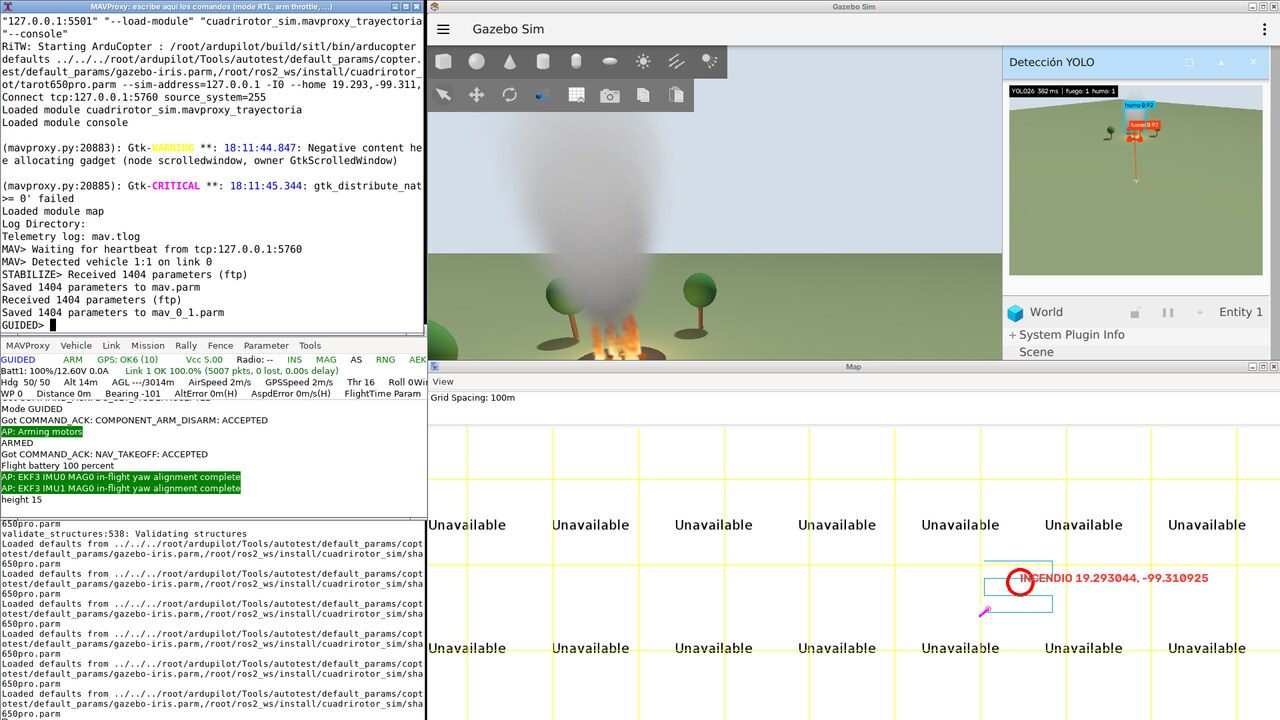
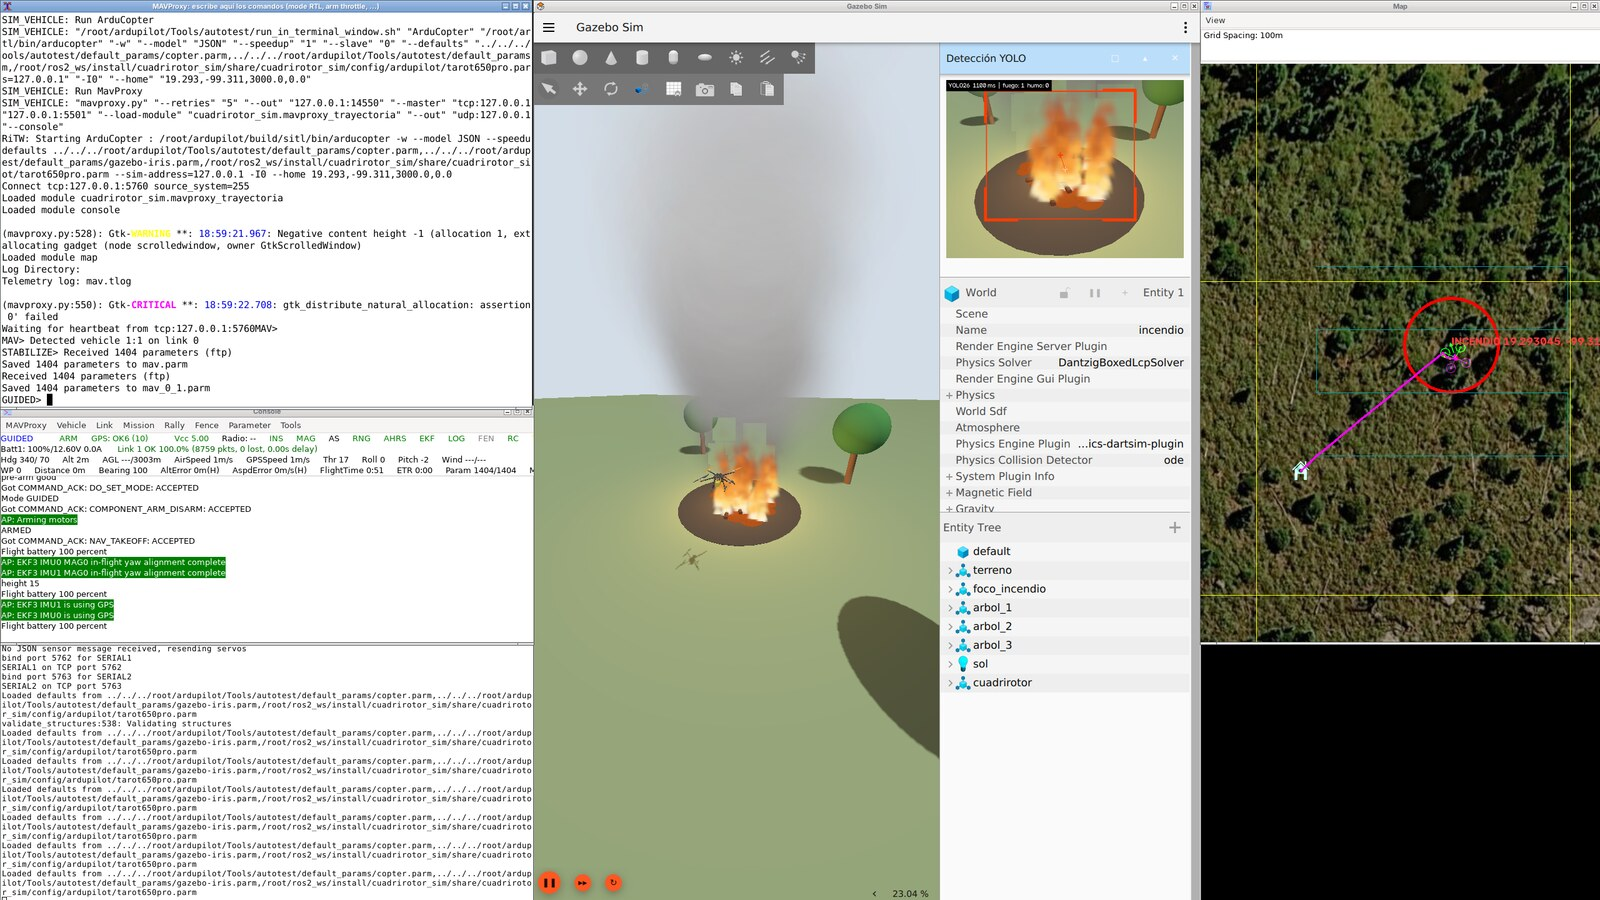
docs: imágenes de las ventanas de ArduPilot y mapa centrado en la ruta
Capturas de la búsqueda pilotada por ArduPilot SITL con el Tarot 650 Pro
(pantalla de 2560x1440, mapa satelital), con cada ventana por separado:
terminal de MAVProxy, consola de MAVProxy, terminal de ArduCopter, mapa con la
trayectoria y el incendio, y Gazebo con la detección de YOLO26.

mavproxy_trayectoria: al llegar la ruta, el mapa se centra en ella con el
acercamiento justo para verla entera (en el mundo incendio la ruta mide unos
80 m y el mapa abría demasiado lejos). Prueba en test_mavproxy_trayectoria.py.

diff --git a/src/cuadrirotor_sim/cuadrirotor_sim/mavproxy_trayectoria.py b/src/cuadrirotor_sim/cuadrirotor_sim/mavproxy_trayectoria.py
@@ -4,7 +4,8 @@
     despega, como una línea continua (un punto cada 'paso' metros).
   - Ruta planeada (cian tenue) y foco del incendio confirmado (círculo rojo):
     los escribe busqueda_incendio en un JSON ('archivo_mapa'); este módulo lo
-    vuelve a leer cuando cambia.
+    vuelve a leer cuando cambia. La primera vez que llega la ruta, el mapa se
+    centra en ella con el acercamiento justo para verla entera.
 
 Se carga con  mavproxy.py --load-module=cuadrirotor_sim.mavproxy_trayectoria
 (el launch lo hace con controlador:=ardupilot y GUI). Comandos en el prompt:
@@ -32,6 +33,21 @@ def distancia(a, b):
     return math.hypot(dx, dy)
 
 
+def encuadre(ruta):
+    """Centro (lat, lon) y ancho a la vista [m] para ver la ruta entera, con margen."""
+    lats, lons = [p[0] for p in ruta], [p[1] for p in ruta]
+    centro = ((min(lats) + max(lats)) / 2, (min(lons) + max(lons)) / 2)
+    lado = max(distancia((min(lats), centro[1]), (max(lats), centro[1])),
+               distancia((centro[0], min(lons)), (centro[0], max(lons))))
+    return centro, max(80.0, 1.6 * lado)
+
+
+def encuadrar(mapa, ruta):
+    centro, ancho = encuadre(ruta)
+    mapa.set_center(*centro)
+    mapa.set_zoom(ancho)
+
+
 class Trayectoria(mp_module.MPModule):
 
     def __init__(self, mpstate):
@@ -44,6 +60,7 @@ class Trayectoria(mp_module.MPModule):
         self.t_archivo = 0.0
         self.mtime = None
         self.datos = {}
+        self.encuadrado = False
         self.add_command('trayectoria', self.comando, 'trayectoria recorrida en el mapa',
                          ['borrar', 'ocultar', 'mostrar'])
 
@@ -103,6 +120,9 @@ class Trayectoria(mp_module.MPModule):
             self.mtime = None     # a medio escribir; se reintenta
             return
         ruta = [tuple(p) for p in self.datos.get('ruta', [])]
+        if len(ruta) >= 2 and not self.encuadrado:
+            self.encuadrado = True
+            encuadrar(mapa, ruta)
         if self.visible and len(ruta) >= 2:
             mapa.add_object(mp_slipmap.SlipPolygon('ruta_planeada', ruta, layer=CAPA,
                                                    colour=(0, 160, 160), linewidth=1, showcircles=False))

diff --git a/src/cuadrirotor_sim/test/test_mavproxy_trayectoria.py b/src/cuadrirotor_sim/test/test_mavproxy_trayectoria.py
@@ -1,0 +1,18 @@
+import pytest
+
+pytest.importorskip('MAVProxy')
+from cuadrirotor_sim.geo import enu_a_geodesica  # noqa: E402
+from cuadrirotor_sim.mavproxy_trayectoria import distancia, encuadre  # noqa: E402
+
+
+def test_encuadre_centra_la_ruta_con_margen():
+    # Rectángulo de 100 m (este) por 60 m (norte) con centro en (10, 20) del mundo.
+    ruta = [enu_a_geodesica(x, y, 0.0)[:2] for x, y in ((-40, -10), (60, -10), (60, 50), (-40, 50))]
+    centro, ancho = encuadre(ruta)
+    assert distancia(centro, enu_a_geodesica(10, 20, 0.0)[:2]) < 0.5
+    assert ancho == pytest.approx(1.6 * 100, rel=0.01)
+
+
+def test_encuadre_minimo_para_rutas_cortas():
+    ruta = [enu_a_geodesica(x, 0, 0.0)[:2] for x in (0, 5)]
+    assert encuadre(ruta)[1] == 80.0

diff --git a/README.md b/README.md
@@ -92,8 +92,23 @@ Con la interfaz se abren y se acomodan solas (`ventanas_sitl.py`) las ventanas d
 - **Terminal de ArduCopter** (abajo a la izquierda): la salida del SITL.
 - **Gazebo** con el panel "Detección YOLO".
 - **Mapa de MAVProxy**: la ruta de patrulla (cian), la trayectoria recorrida (magenta) y el
-  incendio con sus coordenadas (círculo rojo), que dibuja el módulo `mavproxy_trayectoria.py`. En
-  su prompt: `trayectoria borrar`, `trayectoria ocultar`, `trayectoria mostrar`.
+  incendio con sus coordenadas (círculo rojo), que dibuja el módulo `mavproxy_trayectoria.py`. Al
+  llegar la ruta, el mapa se centra en ella. En su prompt: `trayectoria borrar`,
+  `trayectoria ocultar`, `trayectoria mostrar`.
+
+Cada ventana, durante la órbita sobre el foco:
+
+| Terminal de MAVProxy | Consola de MAVProxy |
+|---|---|
+| ![Terminal de MAVProxy con el prompt GUIDED>](docs/ardupilot_terminal_mavproxy.png) | ![Consola de MAVProxy: GUIDED, armado, GPS y mensajes de ArduPilot](docs/ardupilot_consola.png) |
+
+| Mapa de MAVProxy | Gazebo con la detección de YOLO26 |
+|---|---|
+| ![Mapa de MAVProxy: home, trayectoria recorrida y el incendio con sus coordenadas](docs/ardupilot_mapa.jpg) | ![Gazebo: el Tarot 650 Pro orbita el fuego; el panel encuadra el fuego](docs/ardupilot_gazebo.jpg) |
+
+Terminal de ArduCopter (salida del SITL):
+
+![Terminal de ArduCopter](docs/ardupilot_terminal_arducopter.png)
 
 Cómo funciona: `mision_ardupilot` espera al EKF, arma en GUIDED, despega y manda por MAVLink la
 misma referencia que a los controladores de ROS 2; con `mision:=busqueda`, despega a 5 m y después
@@ -108,8 +123,8 @@ Requisitos: ArduCopter SITL compilado en `~/ardupilot` (o `ARDUPILOT_DIR`), el e
     git clone https://github.com/ArduPilot/ardupilot_gazebo.git ~/ros2_ws/src/ardupilot_gazebo
 
 Verificado con el Tarot 650 Pro: en la órbita, error RMS de 10.9 cm (sin viento); en la búsqueda
-del mundo `incendio`, foco (8.0, 5.0) al iniciar el descenso, frente al real (8, 5). En la captura
-el mapa no tiene fondo porque se grabó sin acceso a los servidores de mapas.
+del mundo `incendio`, foco (8.0, 5.0) al iniciar el descenso, frente al real (8, 5). Las capturas
+son de una pantalla de 2560x1440, con el mapa satelital de Google (`MAP_SERVICE=GoogleSat`).
 
 ## Detección con YOLO26
 
